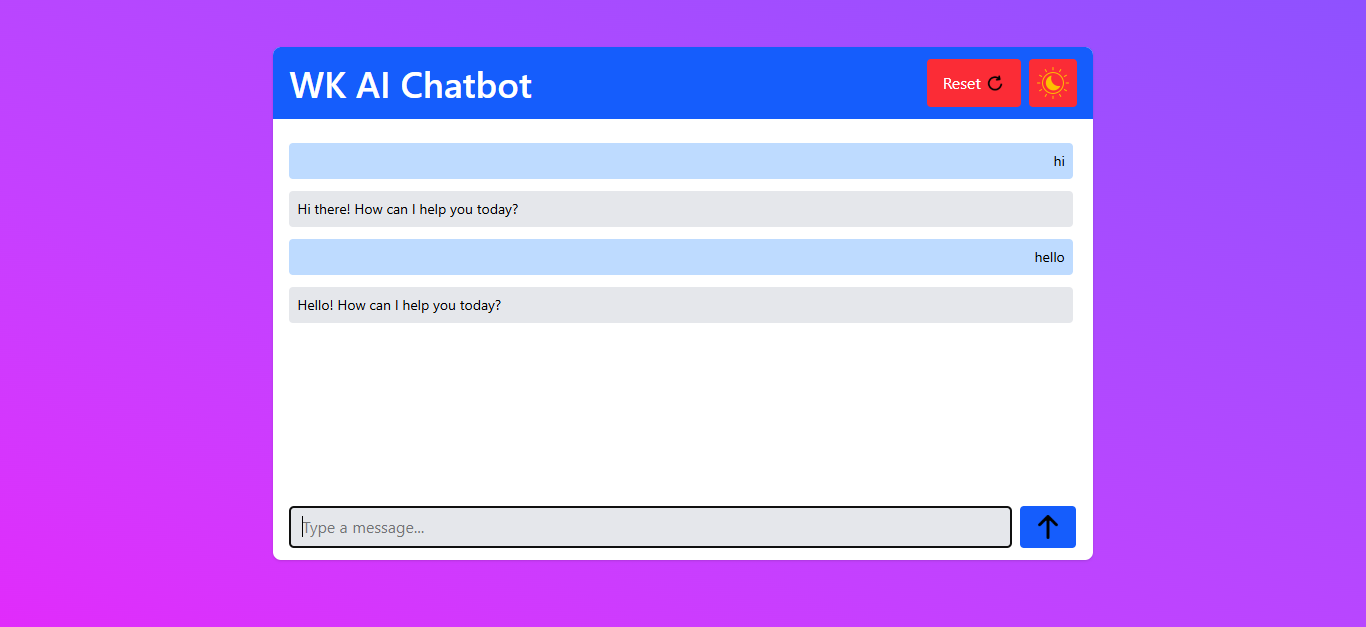
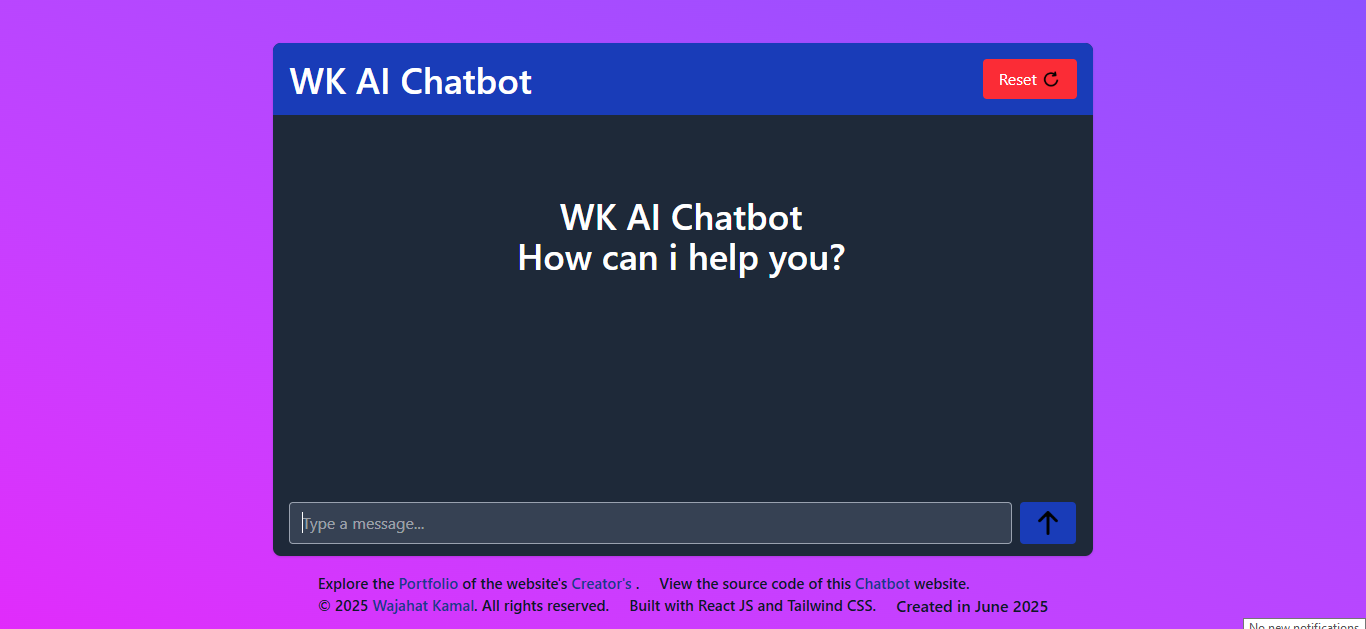
Add WK AI Chatbot project details and update associated image

diff --git a/src/components/ProjectsSection.jsx b/src/components/ProjectsSection.jsx
@@ -11,7 +11,16 @@ const projects = [
     githubURL: "https://github.com/wajahat-kamal/WK-Shoes-Store.git",
   },
   {
-    id: 2,  
+    id: 2,
+    title: "WK AI Chatbot",
+    description: "I built a responsive chatbot using React JS, Tailwind CSS, and the Google Gemini API for smart, real-time conversations.",
+    image: "/projects/WK-Chatbot.png",
+    tags: ["React JS", "Tailwind CSS", "Gemini API"],
+    demoURL: "https://wk-ai-chatbot.vercel.app/",
+    githubURL: "https://github.com/wajahat-kamal/WK-Chatbot.git",
+  },
+  {
+    id: 3,  
     title: "WK Restaurant",
     description:
       "A beautiful WK Restaurant website build HTML, CSS and JavaScript.",
